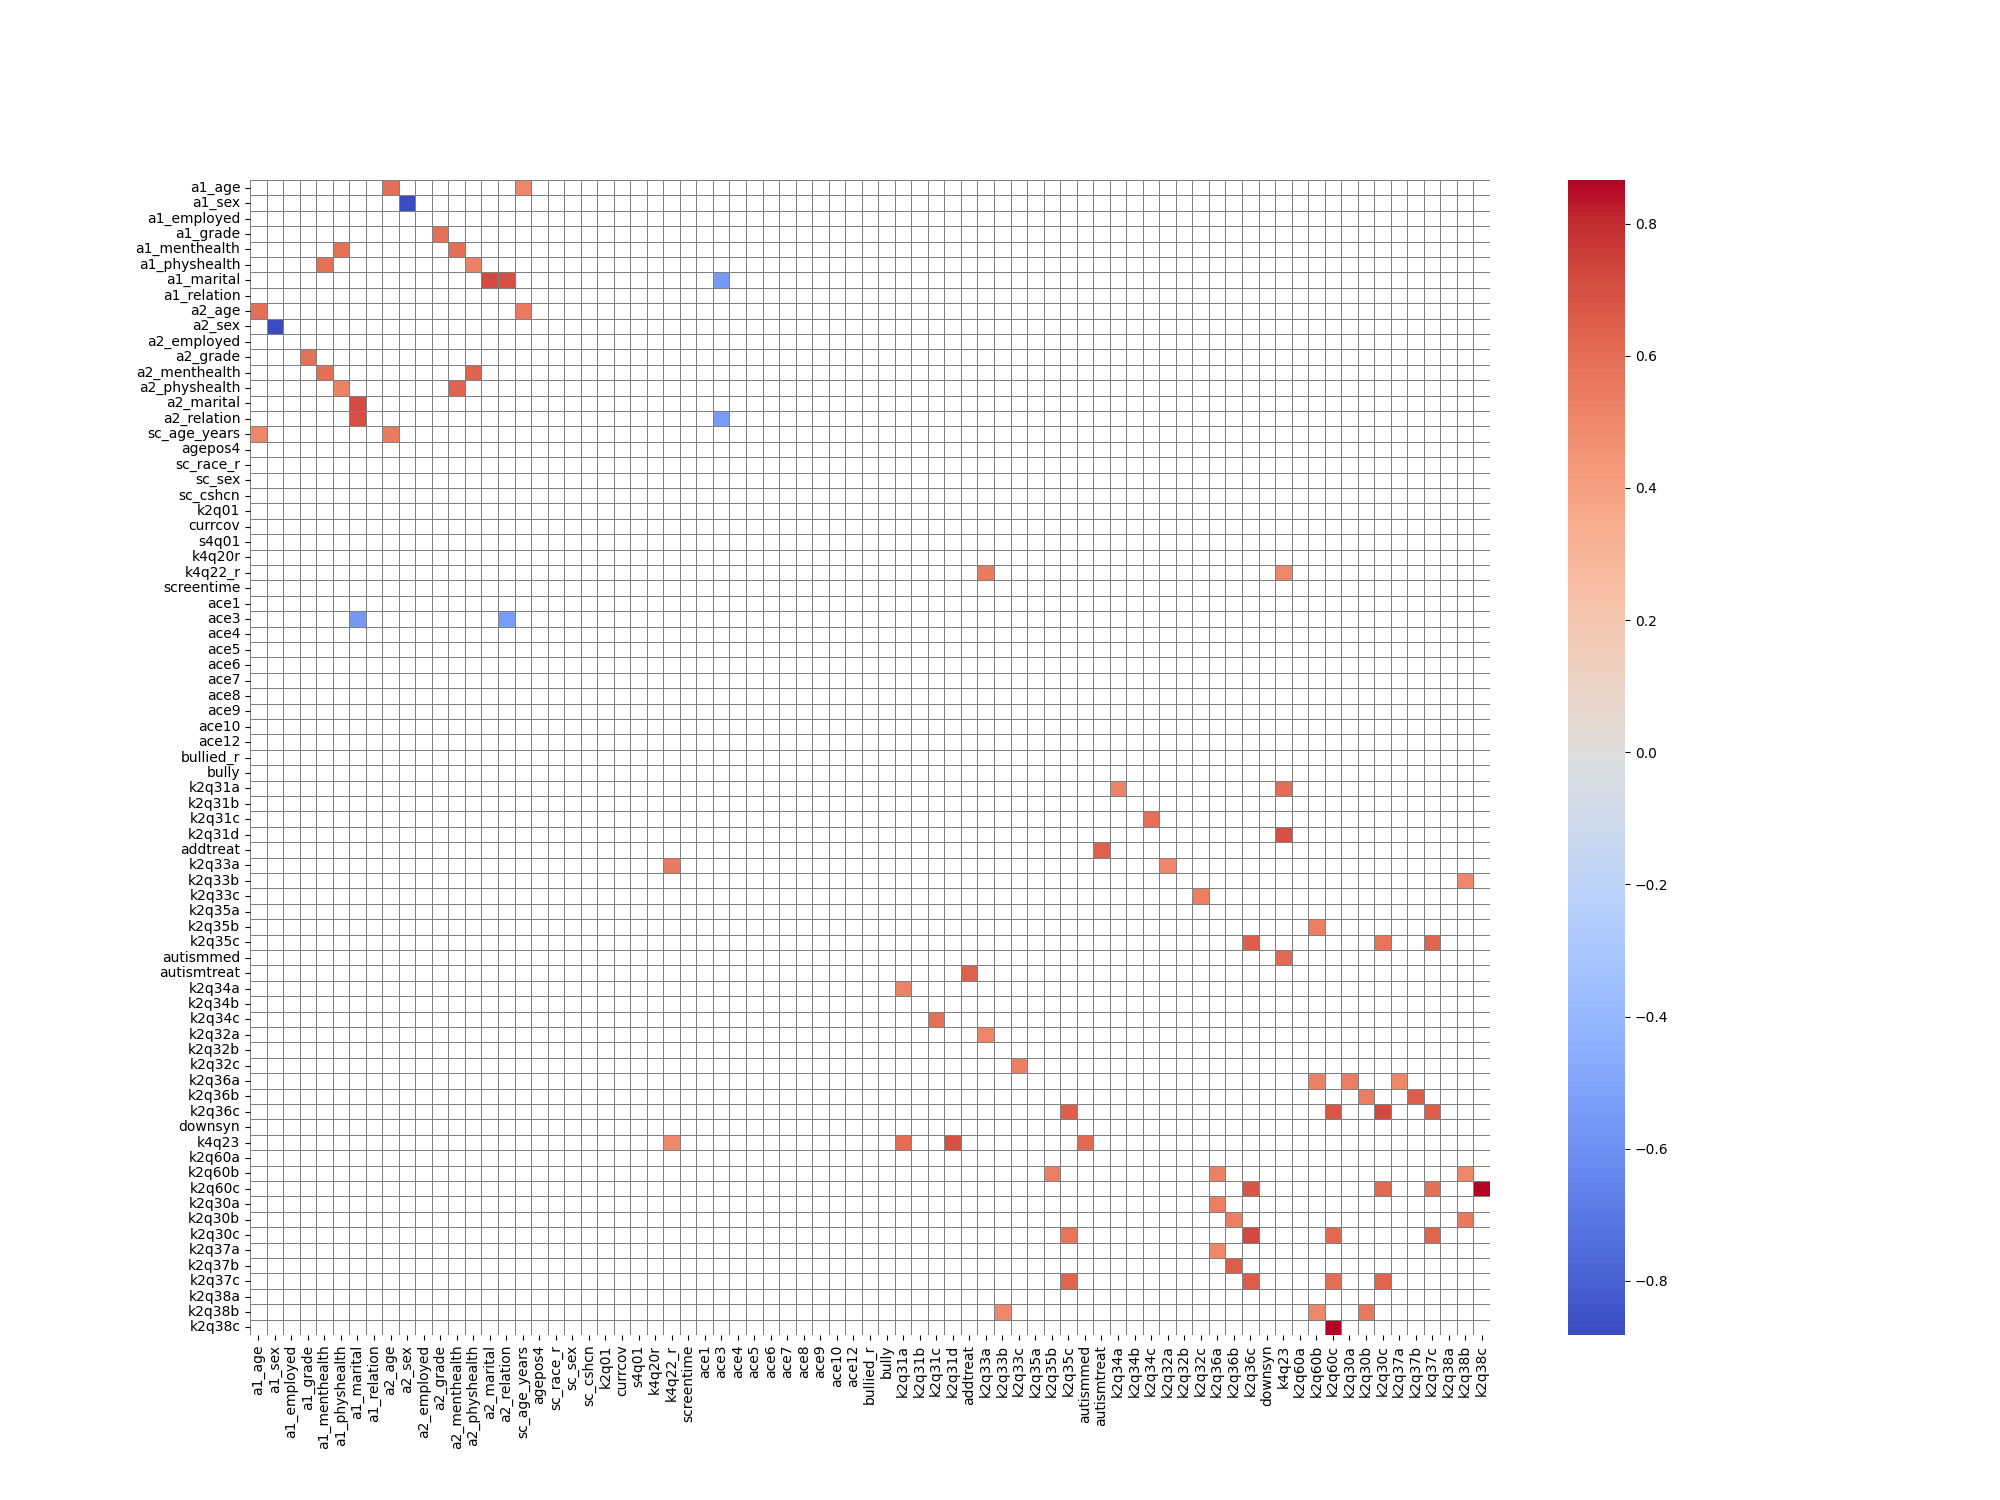
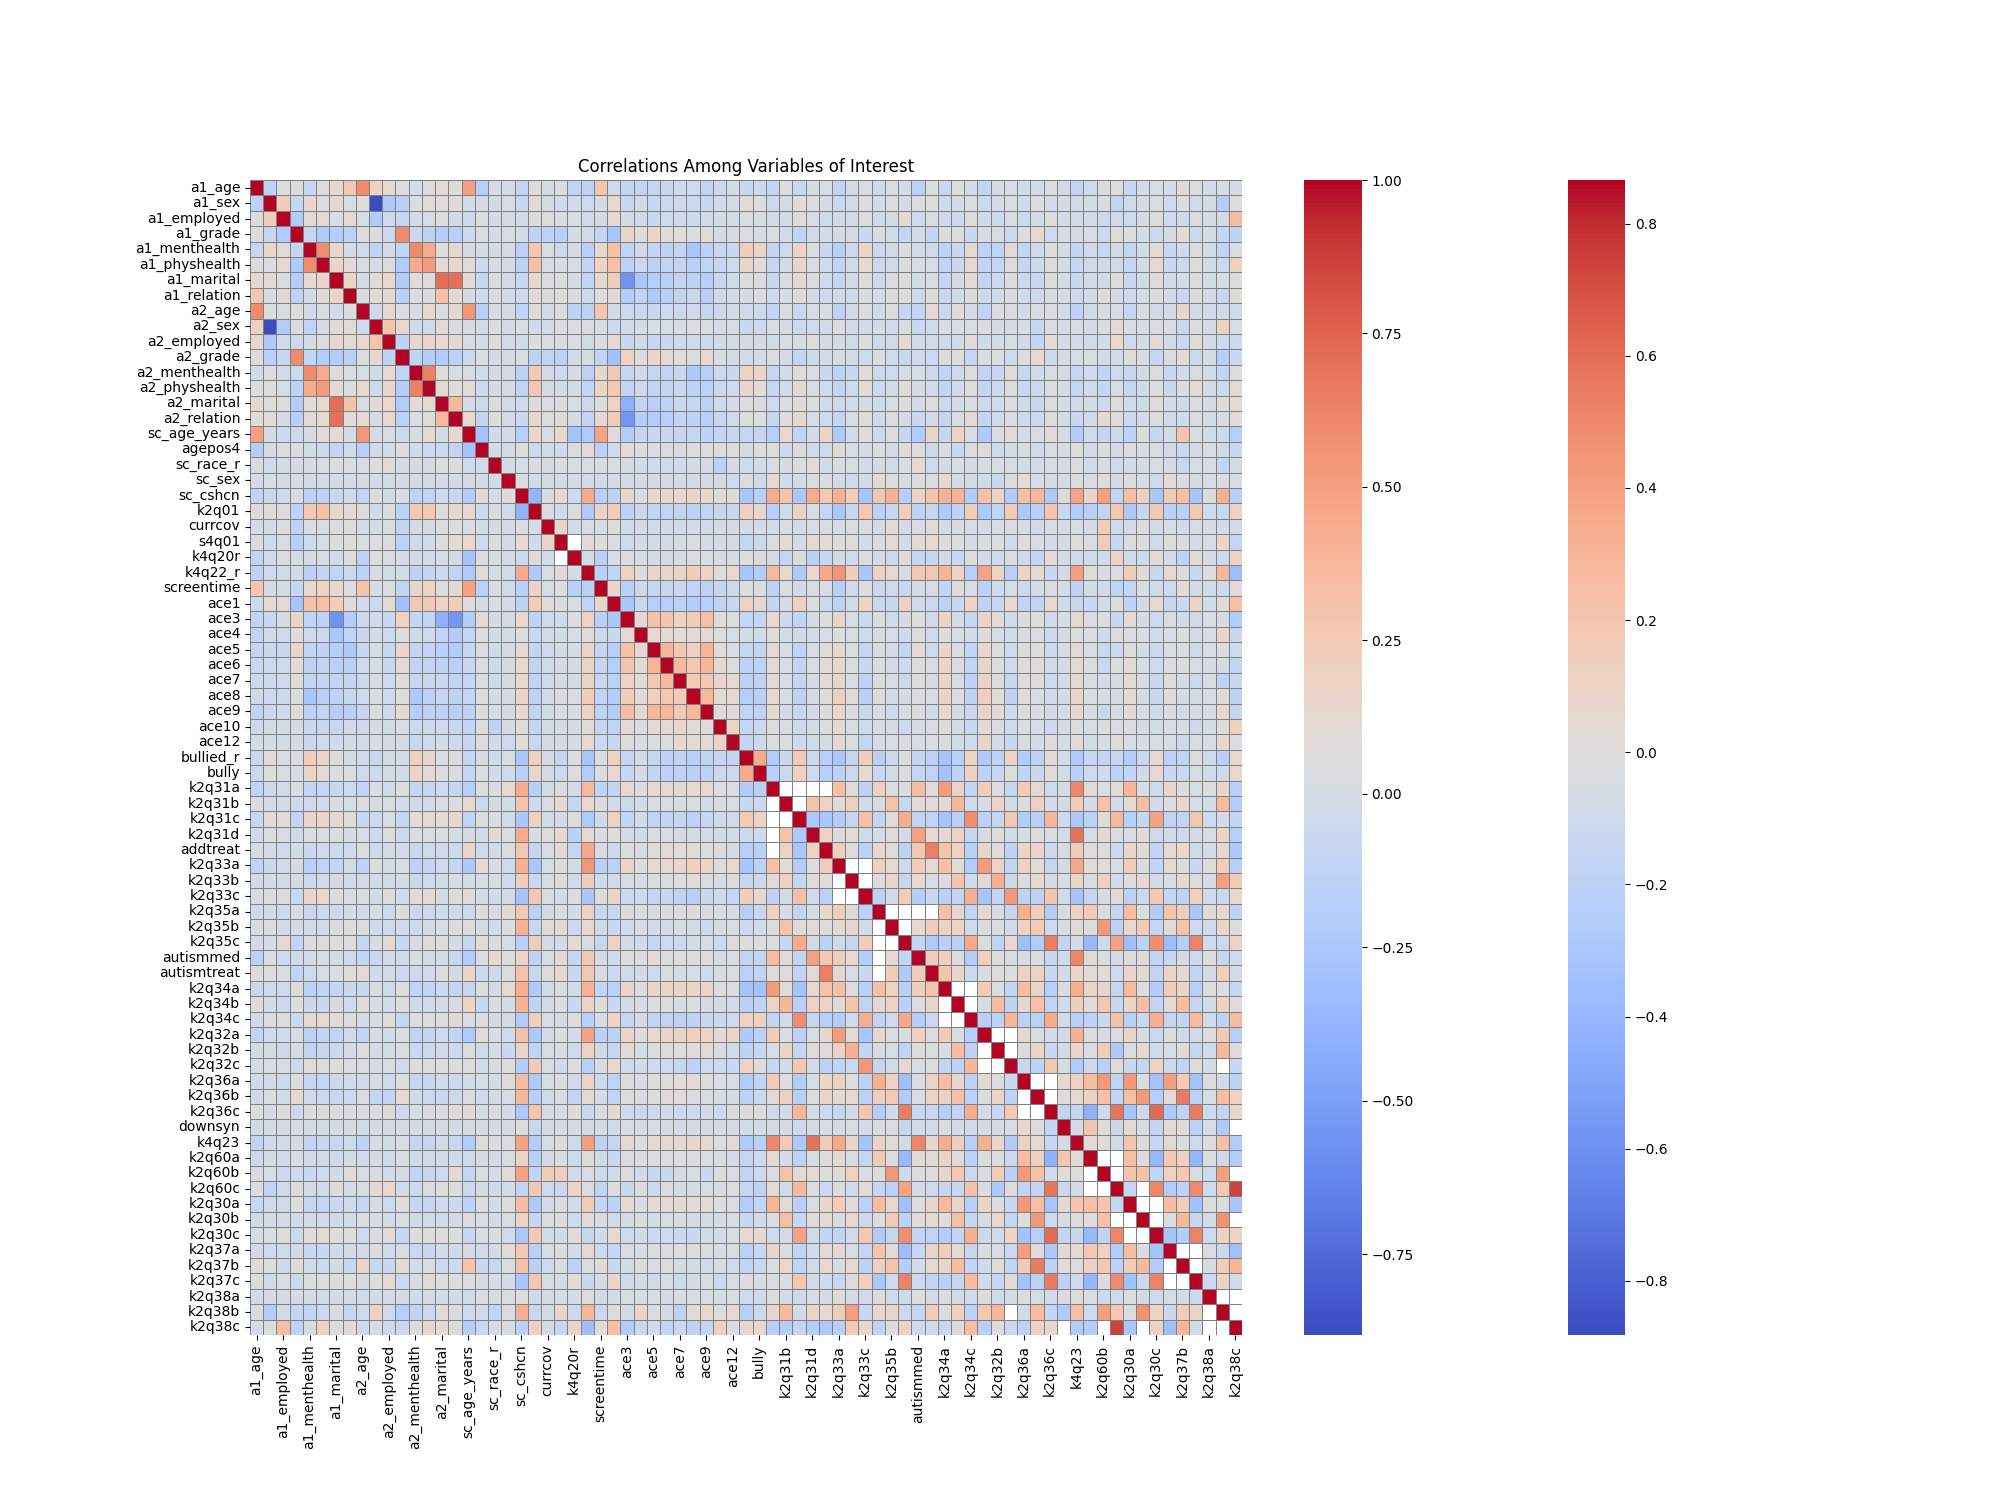
quick update 2

diff --git a/QuickAnalysis.py b/QuickAnalysis.py
@@ -74,4 +74,9 @@ filtered_corr = corr[((corr >= .5) | (corr <= -.5)) & (corr !=1.000)]
 #filtered_corr.style.background_gradient(cmap='coolwarm').set_precision(4).to_excel('./corr_tables/nsch_2020_topical_data_of_interest_filtered.xlsx', engine='xlsxwriter')
 
 sn.heatmap(filtered_corr, annot=False, cmap="coolwarm", linewidths=.5, linecolor='gray')
+plt.title("Top Correlations Among Variables of Interest")
+plt.savefig('./heatmaps/nsch_2020_topical_data_of_interest_filtered.png')
+
+sn.heatmap(corr, annot=False, cmap="coolwarm", linewidths=.5, linecolor='gray')
+plt.title("Correlations Among Variables of Interest")
 plt.savefig('./heatmaps/nsch_2020_topical_data_of_interest.png')
